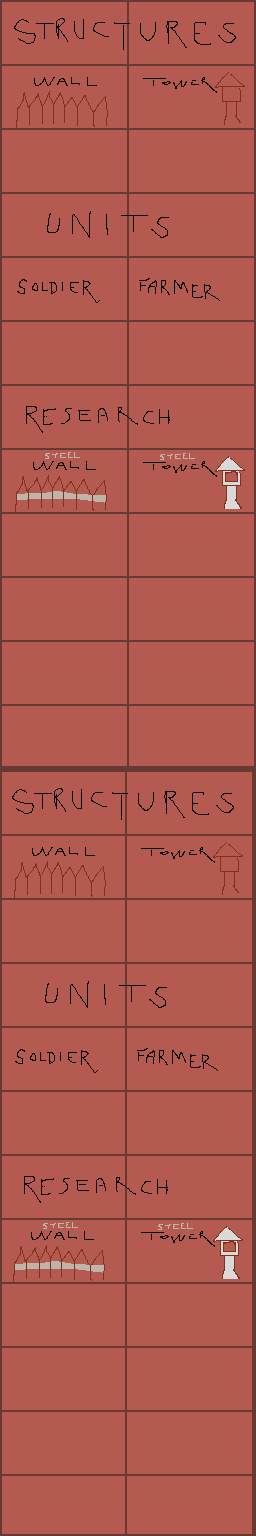
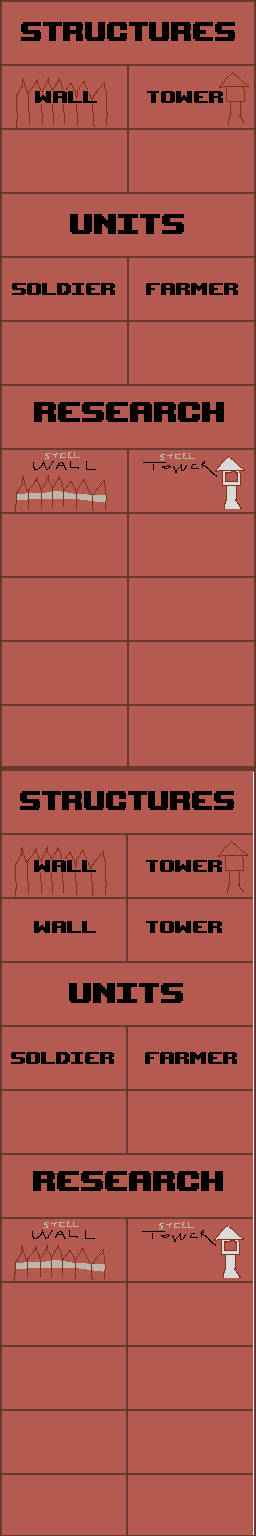
Add button feedback

diff --git a/src/scenes/Level.js b/src/scenes/Level.js
@@ -53,12 +53,41 @@ function placeStructureOnButtonClick(level) {
 
 export class Level extends Phaser.Scene {
   create() {
+    this.createUI();
+
+    this.offsetX = 256;
+    this.tilemap = this.make.tilemap({
+      key: `tilemap:${this.sys.config.key}`,
+      tileWidth: 16,
+      tileHeight: 16,
+    });
+    this.tileset = this.tilemap.addTilesetImage('apoc16x16', tilesetName);
+    this.tileLayers = ['ground', 'rear', 'fore'].reduce((dict, name) => {
+      dict[name] = this.tilemap.createStaticLayer(name, this.tileset, this.offsetX, 0);
+      return dict;
+    }, {});
+
+    this.groups = {
+      placement: this.add.group(),
+      actors: this.add.group(),
+    };
+
+    this.placingObject = null; // {id: string; sprite: Sprite;}
+    this.createInput();
+  }
+
+  createUI() {
     let ui_img = this.add.image(128, 768, 'ui-img');
 //    ui_img.displayHeight = 768;
 
     this.buttons = {
       wall: this.add.sprite(64, 96, 'ui').setInteractive().setFrame(2),
       tower: this.add.sprite(192, 96, 'ui').setInteractive().setFrame(3),
+      soldier: this.add.sprite(64, 288, 'ui').setInteractive().setFrame(8),
+      farmer: this.add.sprite(192, 288, 'ui').setInteractive().setFrame(9),
+      upgrade_wall: this.add.sprite(64, 480, 'ui').setInteractive().setFrame(14),
+      upgrade_tower: this.add.sprite(192, 480, 'ui').setInteractive().setFrame(15),
+
     };
     for (const key in this.buttons) {
       const button = this.buttons[key];
@@ -80,25 +109,7 @@ export class Level extends Phaser.Scene {
       }, this);
     }
 
-    this.offsetX = 256;
-    this.tilemap = this.make.tilemap({
-      key: `tilemap:${this.sys.config.key}`,
-      tileWidth: 16,
-      tileHeight: 16,
-    });
-    this.tileset = this.tilemap.addTilesetImage('apoc16x16', tilesetName);
-    this.tileLayers = ['ground', 'rear', 'fore'].reduce((dict, name) => {
-      dict[name] = this.tilemap.createStaticLayer(name, this.tileset, this.offsetX, 0);
-      return dict;
-    }, {});
 
-    this.groups = {
-      placement: this.add.group(),
-      actors: this.add.group(),
-    };
-
-    this.placingObject = null; // {id: string; sprite: Sprite;}
-    this.createInput();
   }
 
   createInput() {
